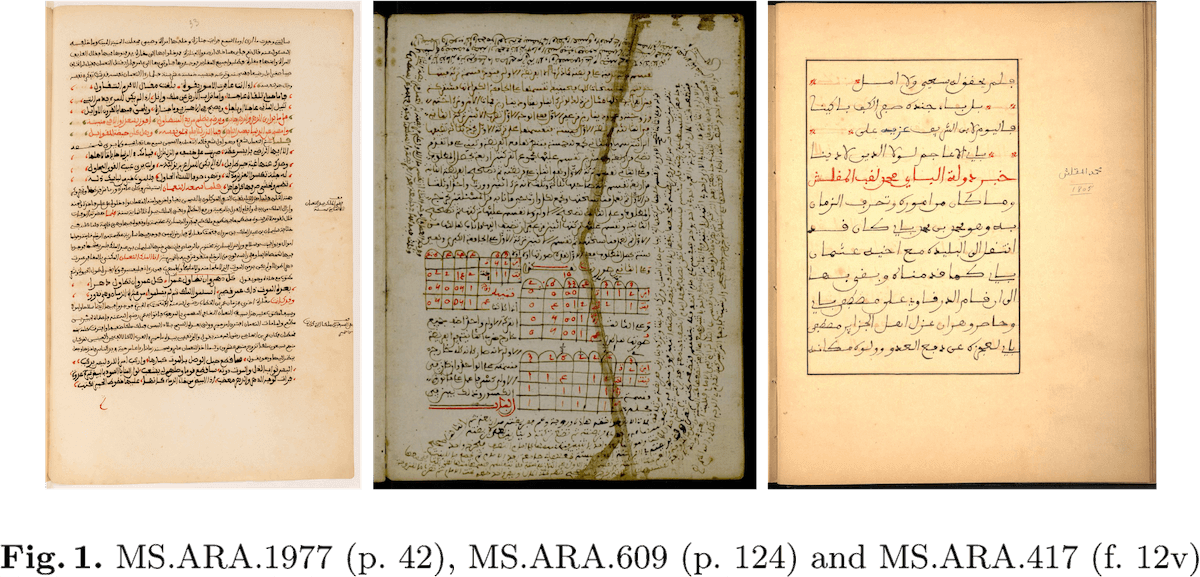
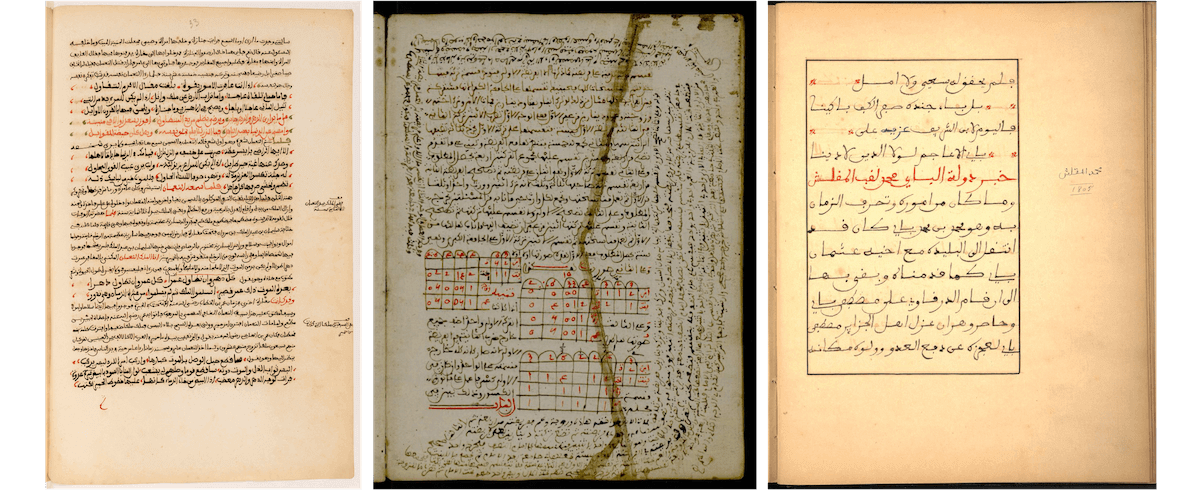
fix images

diff --git a/README.md b/README.md
@@ -26,7 +26,10 @@ The Dataset is made up of 300 images, with their related ground truth stored in 
 Images come from three manuscripts selected among the collections of the BULAC: two manuscripts belong to the historical genre (MS.ARA.1977 and MS.AR.417) and the third one has to do with inheritance law (MS.ARA.609). Please refer to the paper for details about the manuscripts and the Arabic Maghrebi scripts. 
 You will find paleographical details in the [contributing.md](contributing.md) file, with tables devoted to paleographical specificities of the considered manuscripts.
 
-<img src="docs/img/rasam-manuscripts.png" style="width: 50%;"/>
+<figure>
+    <img src="docs/imgs/rasam-manuscripts.png"/>
+    <figcaption>MS.ARA.1977 (p.42), MS.ARA.609 (p.124) and MS.ARA.417 (f. 12v)</figcaption>
+</figure>
  
 Three levels of annotation have been considered: text-regions, baselines and texts. Specifications for transcription have been decided collectively (see paper for exhaustive list of specifications). The annotation was carried out with the [Calfa Vision](https://vision.calfa.fr) platform.
 
@@ -71,3 +74,5 @@ This project is licensed under the Apache License 2.0 - see the LICENSE.md file 
 ## Acknowledgments
 
 This work was carried out with the financial support of the French Ministry of Higher Education, Research and Innovation. It is in line with the scienjpgic focus on digital humanities defined by the Research Consortium Middle-East and Muslim Worlds (GIS MOMM). We would also like to thank all the transcribers and people who took part in the hackathon and ensured its successful completion.
+
+<img src="docs/logos/mesri.png" width="15%"/> <img src="docs/logos/gis-momm.png" width="40%"/> <img src="docs/logos/cnrs.png" width="10%"/> <img src="docs/logos/bulac.png" width="20%"/> <img src="docs/logos/calfa.png" width="10%"/>
